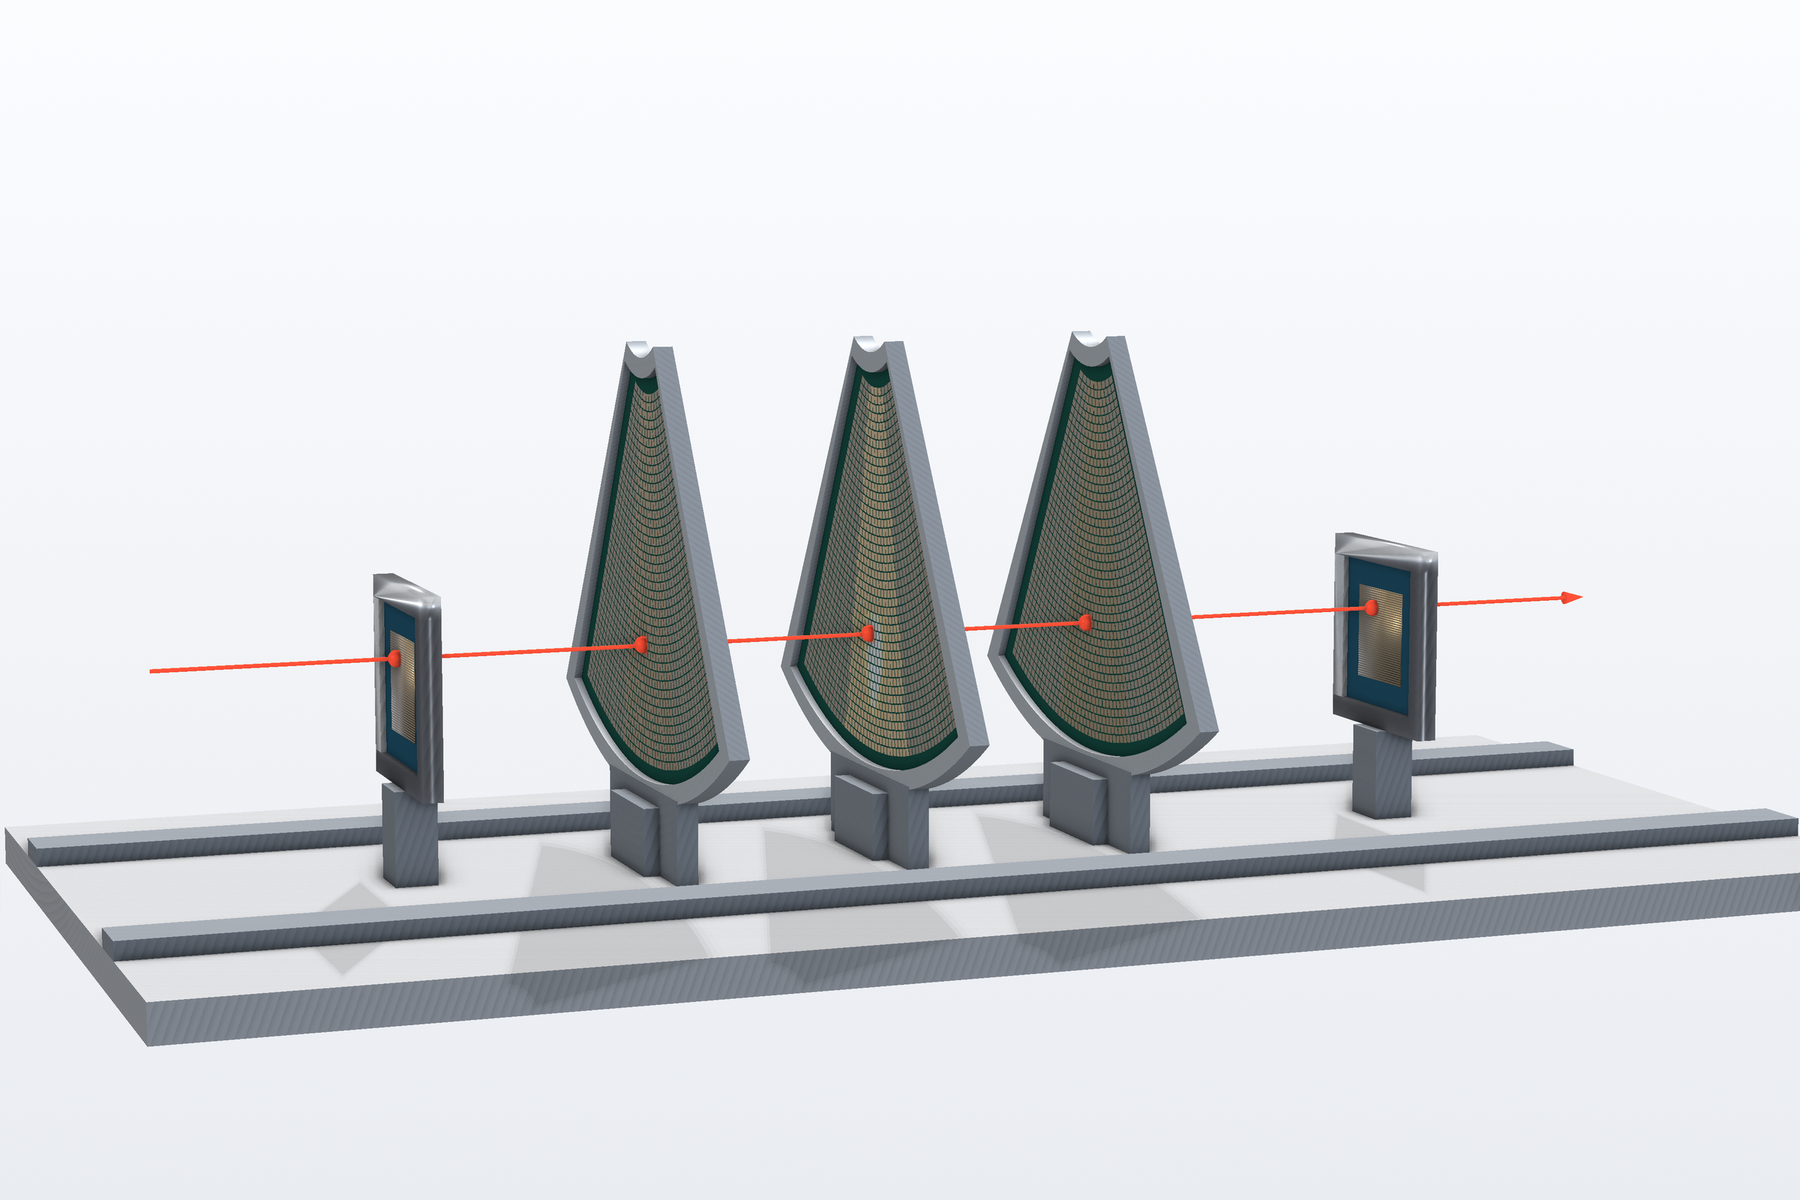
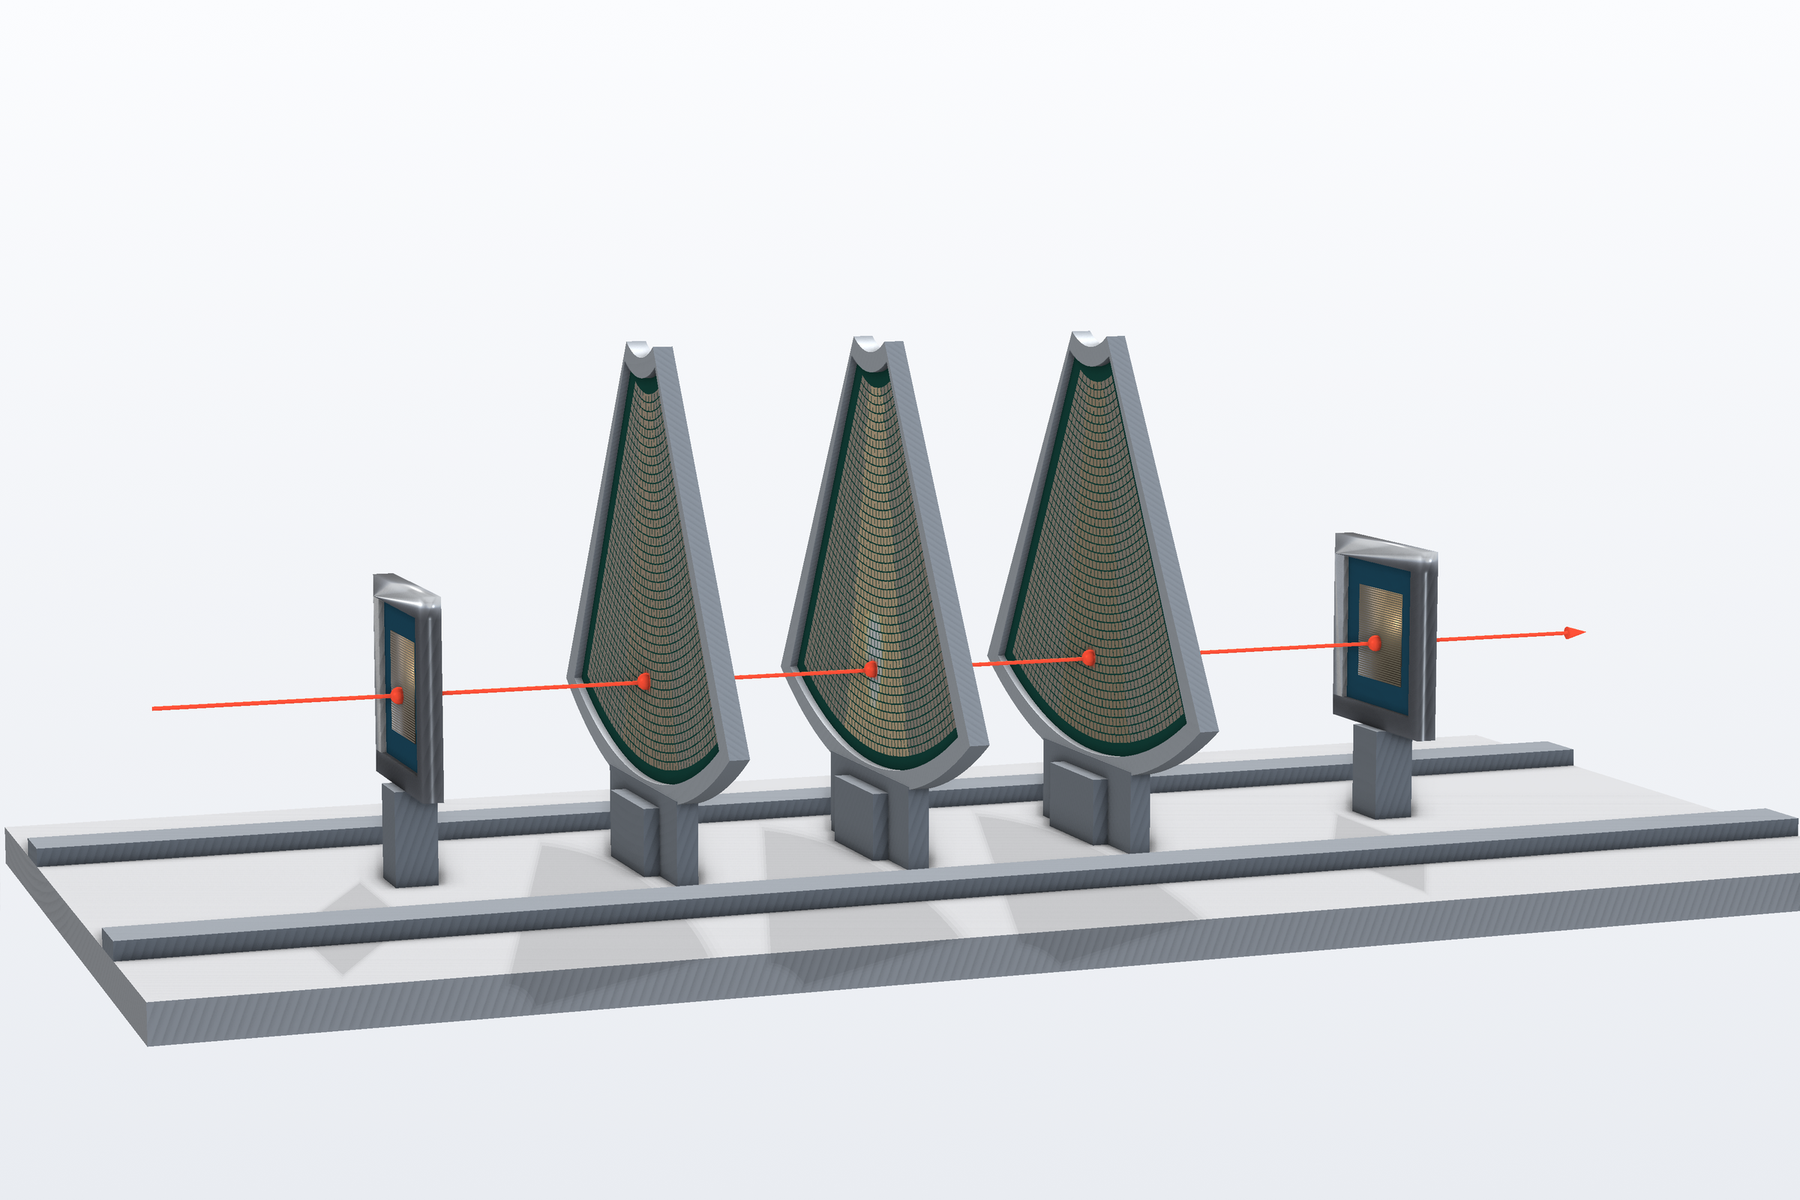
note: MPGD26 deck — the event display is now a measured five-fold coincidence (geventId 230000168979)

diff --git a/notes/2026-08-17-mpgd26-talk-draft-deck.html b/notes/2026-08-17-mpgd26-talk-draft-deck.html
@@ -1031,35 +1031,49 @@ size. So the detector is doing exactly what a binary pad readout should do."</p>
 
 <div class="cols">
 <div>
-<div class="msg hit">A <b>measured</b> muon, drawn through the real geometry:
-the two uRWELL references at z = 0 and 1370 mm, the three P2 BASKET fans at
-320 / 630 / 940 mm, on the H4 rail. The marker on each plane is where that muon
-was recorded.</div>
+<div class="msg hit"><b>A genuine five-fold coincidence</b>, drawn through the
+real geometry: <code>highstat_eff_1 / beam_commissioning_00</code>, geventId
+230000168979. Two uRWELL references at z = 0 and 1370 mm, the three P2 BASKET
+fans at 320 / 630 / 940 mm, on the H4 rail. Every marker is a
+<b>recorded hit</b> — the uRWELL track has one cluster in each of its four
+views, and each P2 station fired <b>exactly one pad</b>.</div>
+<table>
+<thead><tr><th>plane</th><th>pad</th><th>amplitude</th><th>pads fired</th>
+<th>track → pad</th></tr></thead>
+<tbody>
+<tr><td>P2_IN</td><td>627</td><td>212</td><td>1</td><td>1.48 mm</td></tr>
+<tr class="hl"><td>P2_MID</td><td>627</td><td>1330</td><td>1</td><td>1.30 mm</td></tr>
+<tr><td>P2_OUT</td><td>627</td><td>1219</td><td>1</td><td>1.07 mm</td></tr>
+</tbody>
+</table>
+<p class="sub">Selected from <b>476 five-detector coincidences</b> (76 % of the
+tracked events in the window) as the one with the tightest track-to-pad
+distances. The population's mean residual is 4.81 mm, which is the published
+<i>rigid</i>-fit RMSE (4.83–4.87 mm) — the 3.46 mm pad quantisation is the
+affine-fit number quoted on slide 16.</p>
+</div>
+<div>
+<p>The same muon fires <b>the same pad number, 627, on all three
+stations</b> — which is what a beam parallel to better than 0.5 mrad through
+three planes aligned to under 2 mm must do. It is also a free cross-check that
+the three independent channel→pad maps agree, including P2_IN's flipped
+<code>c_5_top</code> ribbon.</p>
 <p class="sub">The scene is built from the run configs, not drawn by hand: all
 1280 pads are placed as their true rotated rectangles from the Gerber map, the
 fan is the real annulus sector (r = 150.7 → 635.0 mm), and the instrumented
-sectors 3–6 are the bright ones. MX17 is absent because it was only installed
-on 1 August — this event is from 25 July.</p>
-</div>
-<div>
-<p>The same muon crosses <b>the same pad number, 590, on all three
-stations</b> — which is what a beam parallel to better than 0.5 mrad through
-three planes aligned to under 2 mm must do, and a nice sanity check that the
-three independent channel maps agree.</p>
-<div class="msg warn"><b>Provenance, to keep straight.</b> The uRWELL track is
-measured — two-point, from clusters in all four uRWELL views, and only written
-after reproducing the published front→back alignment. In <i>this</i> render the
-three P2 pads are the pads that track crosses, from the published alignment;
-the version requiring a <b>confirmed P2 cluster in all three stations for the
-same event</b> is extracted separately
-(<code>tools/extract_coincident_event.py</code>). Say "the muon the uRWELLs
-measured, through the pads it crossed" until that lands.</div>
+sectors 3–6 are the bright ones. MX17 is absent because it was only installed on
+1 August — this event is from 25 July.</p>
+<div class="msg"><b>Note the amplitudes:</b> 212 ADC on P2_IN against 1330 and
+1219 on MID and OUT. P2_IN ran at lower gain throughout, which is the same fact
+that explains its shifted turn-on (slide 24) and its low VMM efficiency
+(slide 22) — visible in a single event.</div>
 </div>
 </div>
 
 <p class="notes"><b>Say:</b> "This is the P2 tracker. Two reference planes, three
-P2 fans at their real spacing, and one muon through all five. Same pad number on
-all three stations, because the beam is parallel to half a milliradian."</p>
+P2 fans at their real spacing, and one muon recorded by all five — one pad per
+plane, the same pad number on all three, because the beam is parallel to half a
+milliradian."</p>
 <span class="num">17</span></section>
 
 
@@ -1085,8 +1099,9 @@ leading-pad position against z.</p>
 
 <div class="msg">Keep whichever suits the room. The 3D render sells "this is the
 P2 tracker in its final configuration"; the 2D display is the one that shows
-<b>one pad per plane per muon</b>, which is the cluster-size and
-spatial-resolution story on slide 16.</div>
+<b>one pad per plane per muon</b> across several events, which is the
+cluster-size and spatial-resolution story on slide 16. Both are measured
+five-fold coincidences from the same run.</div>
 
 <p class="notes"><b>Say:</b> "Same physics, two framings — the render for what
 it is, the pad display for what it measures."</p>
@@ -2184,10 +2199,12 @@ with the untaken cells marked rather than as lines through a sparse scan.</li>
 never been put in a talk.</li>
 <li><b>the 3D five-chamber coincidence</b> (slides 17–18) — rendered from the
 <code>nTof_x17/mpgd26</code> setup model with a real measured uRWELL muon
-threaded through it. New machinery:
-<code>make_coincidence.py</code>,
-<code>tools/extract_coincident_event.py</code> (five-fold coincidences on
-lxplus) and <code>tools/check_track_pad_frames.py</code>, which exists because
+threaded through it — <b>476 five-fold coincidences extracted</b> from
+<code>highstat_eff_1</code> on lxplus, of which the deck draws the cleanest.
+New machinery: <code>make_coincidence.py</code>,
+<code>tools/extract_coincident_event.py</code> (which refuses to write unless it
+reproduces the published uRWELL front→back alignment) and
+<code>tools/check_track_pad_frames.py</code>, which exists because
 composing the published uRWELL→pad alignment with the renderer's beam's-eye pad
 mirror is a <i>reflection</i> — x agrees to 0.1 mm and y silently flips. The
 track is therefore drawn through the same pad-frame→lab composition as the
